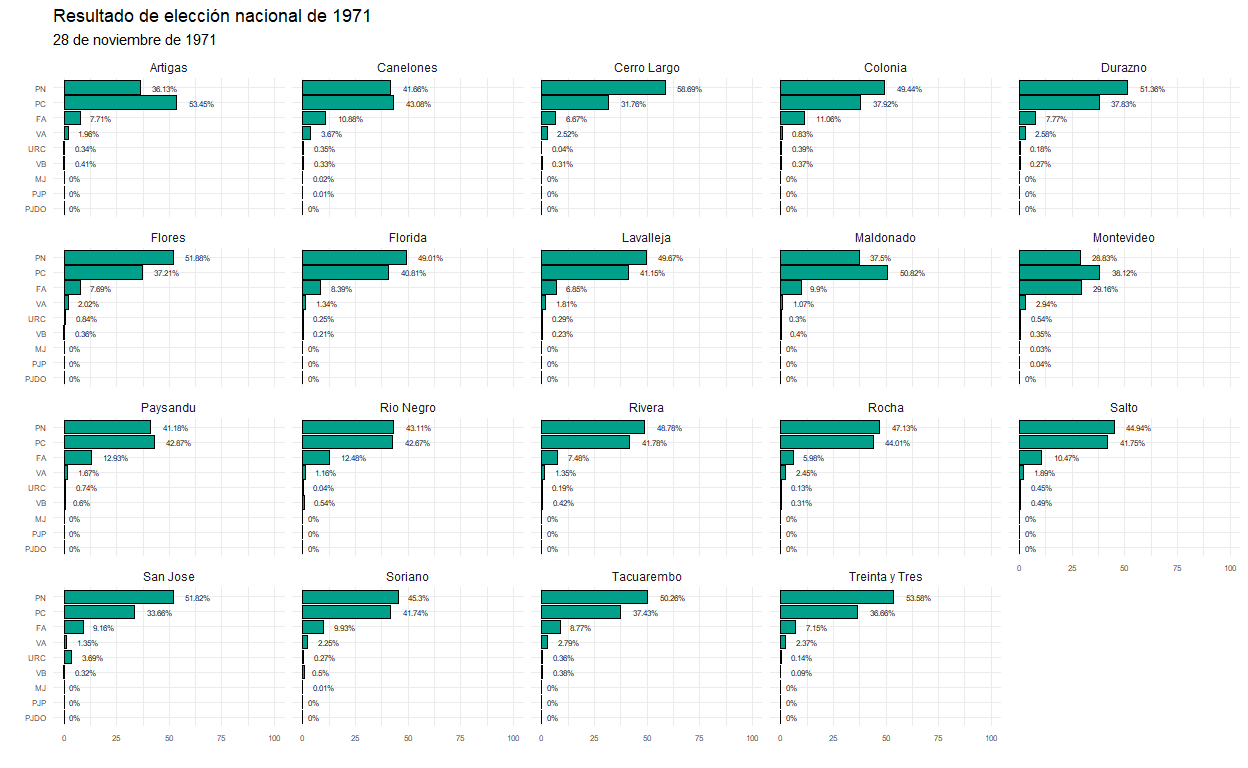
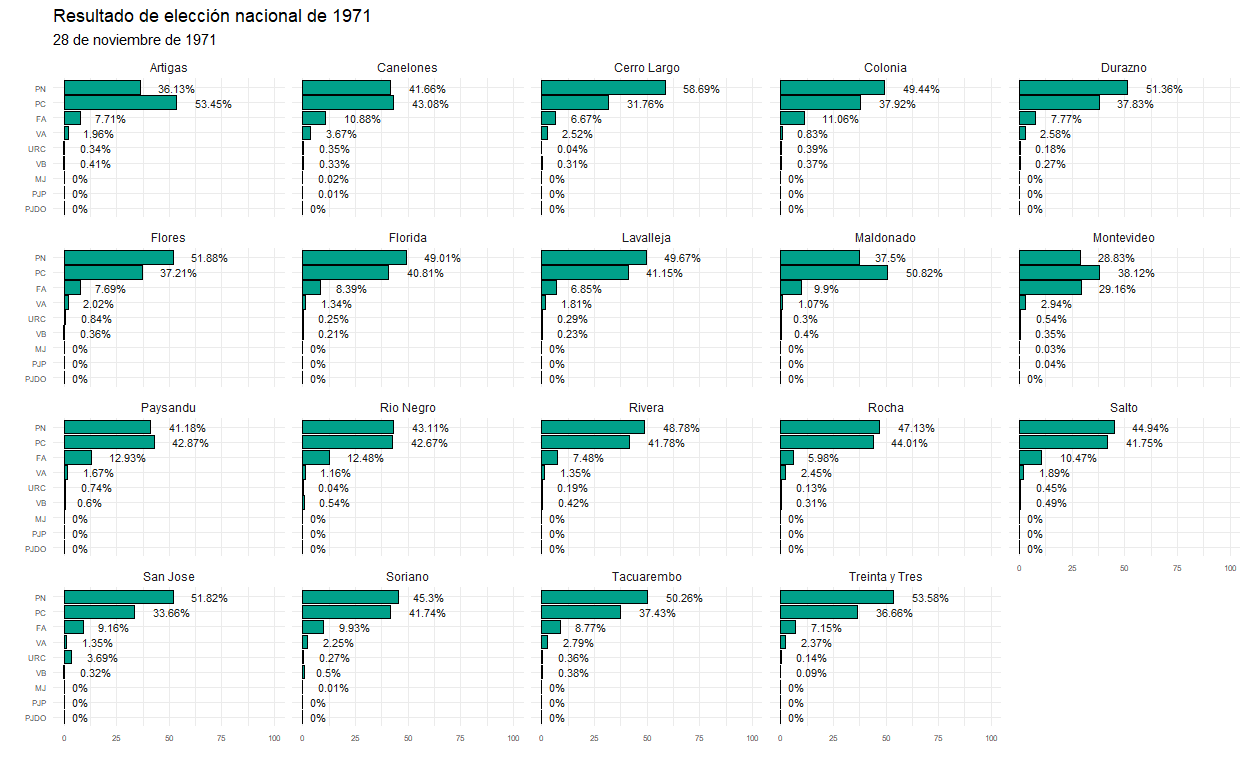
round and size g

diff --git a/docs/index.html b/docs/index.html
@@ -214,7 +214,7 @@
     <span class="fu"><a href="https://ggplot2.tidyverse.org/reference/geom_bar.html">geom_bar</a></span>(<span class="kw">stat</span> <span class="kw">=</span> <span class="st">"identity"</span>, <span class="kw">position</span> <span class="kw">=</span> <span class="st">"stack"</span>, <span class="kw">fill</span> <span class="kw">=</span> <span class="st">"#00A08A"</span>, <span class="kw">color</span> <span class="kw">=</span> <span class="st">"black"</span>) +
     <span class="fu"><a href="https://ggplot2.tidyverse.org/reference/lims.html">ylim</a></span>(<span class="fl">0</span>,<span class="fl">100</span>) +
     <span class="fu"><a href="https://ggplot2.tidyverse.org/reference/coord_flip.html">coord_flip</a></span>() +
-    <span class="fu"><a href="https://ggplot2.tidyverse.org/reference/geom_text.html">geom_text</a></span>(<span class="fu"><a href="https://ggplot2.tidyverse.org/reference/aes.html">aes</a></span>(<span class="kw">label</span> <span class="kw">=</span> <span class="fu"><a href="https://rdrr.io/r/base/paste.html">paste0</a></span>(<span class="no">Porcentaje</span>, <span class="st">"%"</span>)), <span class="kw">hjust</span> <span class="kw">=</span> -<span class="fl">0.5</span>, <span class="kw">color</span> <span class="kw">=</span> <span class="st">"gray9"</span>, <span class="kw">size</span> <span class="kw">=</span> <span class="fl">3</span>) +
+    <span class="fu"><a href="https://ggplot2.tidyverse.org/reference/geom_text.html">geom_text</a></span>(<span class="fu"><a href="https://ggplot2.tidyverse.org/reference/aes.html">aes</a></span>(<span class="kw">label</span> <span class="kw">=</span> <span class="fu"><a href="https://rdrr.io/r/base/paste.html">paste0</a></span>(<span class="fu"><a href="https://rdrr.io/r/base/Round.html">round</a></span>(<span class="no">Porcentaje</span>, <span class="fl">2</span>), <span class="st">"%"</span>)), <span class="kw">hjust</span> <span class="kw">=</span> -<span class="fl">0.5</span>, <span class="kw">color</span> <span class="kw">=</span> <span class="st">"gray9"</span>, <span class="kw">size</span> <span class="kw">=</span> <span class="fl">4</span>) +
     <span class="fu"><a href="https://ggplot2.tidyverse.org/reference/labs.html">labs</a></span>(<span class="kw">x</span> <span class="kw">=</span> <span class="st">""</span>, <span class="kw">y</span> <span class="kw">=</span> <span class="st">""</span>,
          <span class="kw">title</span> <span class="kw">=</span> <span class="st">"Resultado de elección nacional de 1971"</span>,
          <span class="kw">subtitle</span> <span class="kw">=</span> <span class="st">"28 de noviembre de 1971"</span>) +
@@ -226,7 +226,7 @@
     <span class="fu"><a href="https://ggplot2.tidyverse.org/reference/geom_bar.html">geom_bar</a></span>(<span class="kw">stat</span><span class="kw">=</span><span class="st">"identity"</span>, <span class="kw">position</span> <span class="kw">=</span> <span class="st">"stack"</span>, <span class="kw">fill</span> <span class="kw">=</span> <span class="st">"#00A08A"</span>, <span class="kw">color</span> <span class="kw">=</span> <span class="st">"black"</span>) +
     <span class="fu"><a href="https://ggplot2.tidyverse.org/reference/lims.html">ylim</a></span>(<span class="fl">0</span>,<span class="fl">100</span>) +
     <span class="fu"><a href="https://ggplot2.tidyverse.org/reference/coord_flip.html">coord_flip</a></span>() +
-    <span class="fu"><a href="https://ggplot2.tidyverse.org/reference/geom_text.html">geom_text</a></span>(<span class="fu"><a href="https://ggplot2.tidyverse.org/reference/aes.html">aes</a></span>(<span class="kw">label</span> <span class="kw">=</span> <span class="fu"><a href="https://rdrr.io/r/base/paste.html">paste0</a></span>(<span class="no">Porcentaje</span>, <span class="st">"%"</span>)), <span class="kw">hjust</span> <span class="kw">=</span> -<span class="fl">0.5</span>, <span class="kw">color</span> <span class="kw">=</span> <span class="st">"gray9"</span>, <span class="kw">size</span> <span class="kw">=</span> <span class="fl">2</span>) +
+    <span class="fu"><a href="https://ggplot2.tidyverse.org/reference/geom_text.html">geom_text</a></span>(<span class="fu"><a href="https://ggplot2.tidyverse.org/reference/aes.html">aes</a></span>(<span class="kw">label</span> <span class="kw">=</span> <span class="fu"><a href="https://rdrr.io/r/base/paste.html">paste0</a></span>(<span class="fu"><a href="https://rdrr.io/r/base/Round.html">round</a></span>(<span class="no">Porcentaje</span>, <span class="fl">2</span>), <span class="st">"%"</span>)), <span class="kw">hjust</span> <span class="kw">=</span> -<span class="fl">0.5</span>, <span class="kw">color</span> <span class="kw">=</span> <span class="st">"gray9"</span>, <span class="kw">size</span> <span class="kw">=</span> <span class="fl">3</span>) +
     <span class="fu"><a href="https://ggplot2.tidyverse.org/reference/labs.html">labs</a></span>(<span class="kw">x</span> <span class="kw">=</span> <span class="st">""</span>, <span class="kw">y</span> <span class="kw">=</span> <span class="st">""</span>,
          <span class="kw">title</span> <span class="kw">=</span> <span class="st">"Resultado de elección nacional de 1971"</span>,
          <span class="kw">subtitle</span> <span class="kw">=</span> <span class="st">"28 de noviembre de 1971"</span>) +

diff --git a/README.md b/README.md
@@ -126,7 +126,7 @@ ggplot(data = elec71 , aes(x = reorder(Partido, Porcentaje), y = Porcentaje)) +
     geom_bar(stat = "identity", position = "stack", fill = "#00A08A", color = "black") +
     ylim(0,100) +
     coord_flip() +
-    geom_text(aes(label = paste0(Porcentaje, "%")), hjust = -0.5, color = "gray9", size = 3) +
+    geom_text(aes(label = paste0(round(Porcentaje, 2), "%")), hjust = -0.5, color = "gray9", size = 4) +
     labs(x = "", y = "",
          title = "Resultado de elección nacional de 1971",
          subtitle = "28 de noviembre de 1971") +
@@ -142,7 +142,7 @@ ggplot(data = elec71 , aes(x = reorder(Sigla, Porcentaje), y = Porcentaje)) +
     geom_bar(stat="identity", position = "stack", fill = "#00A08A", color = "black") +
     ylim(0,100) +
     coord_flip() +
-    geom_text(aes(label = paste0(Porcentaje, "%")), hjust = -0.5, color = "gray9", size = 2) +
+    geom_text(aes(label = paste0(round(Porcentaje, 2), "%")), hjust = -0.5, color = "gray9", size = 3) +
     labs(x = "", y = "",
          title = "Resultado de elección nacional de 1971",
          subtitle = "28 de noviembre de 1971") +
